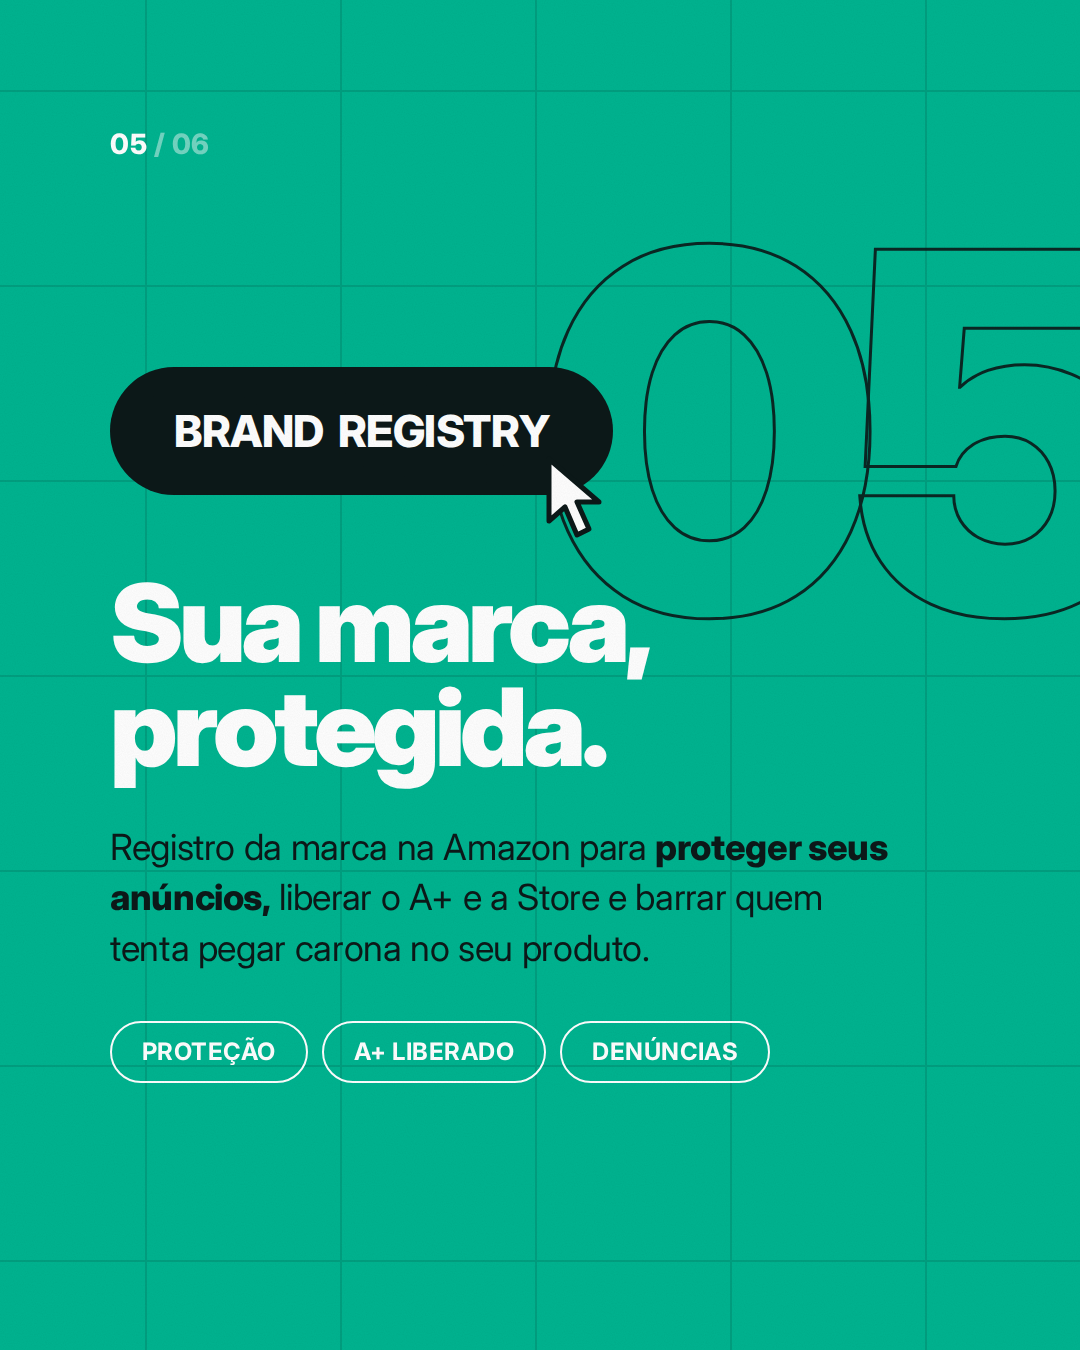
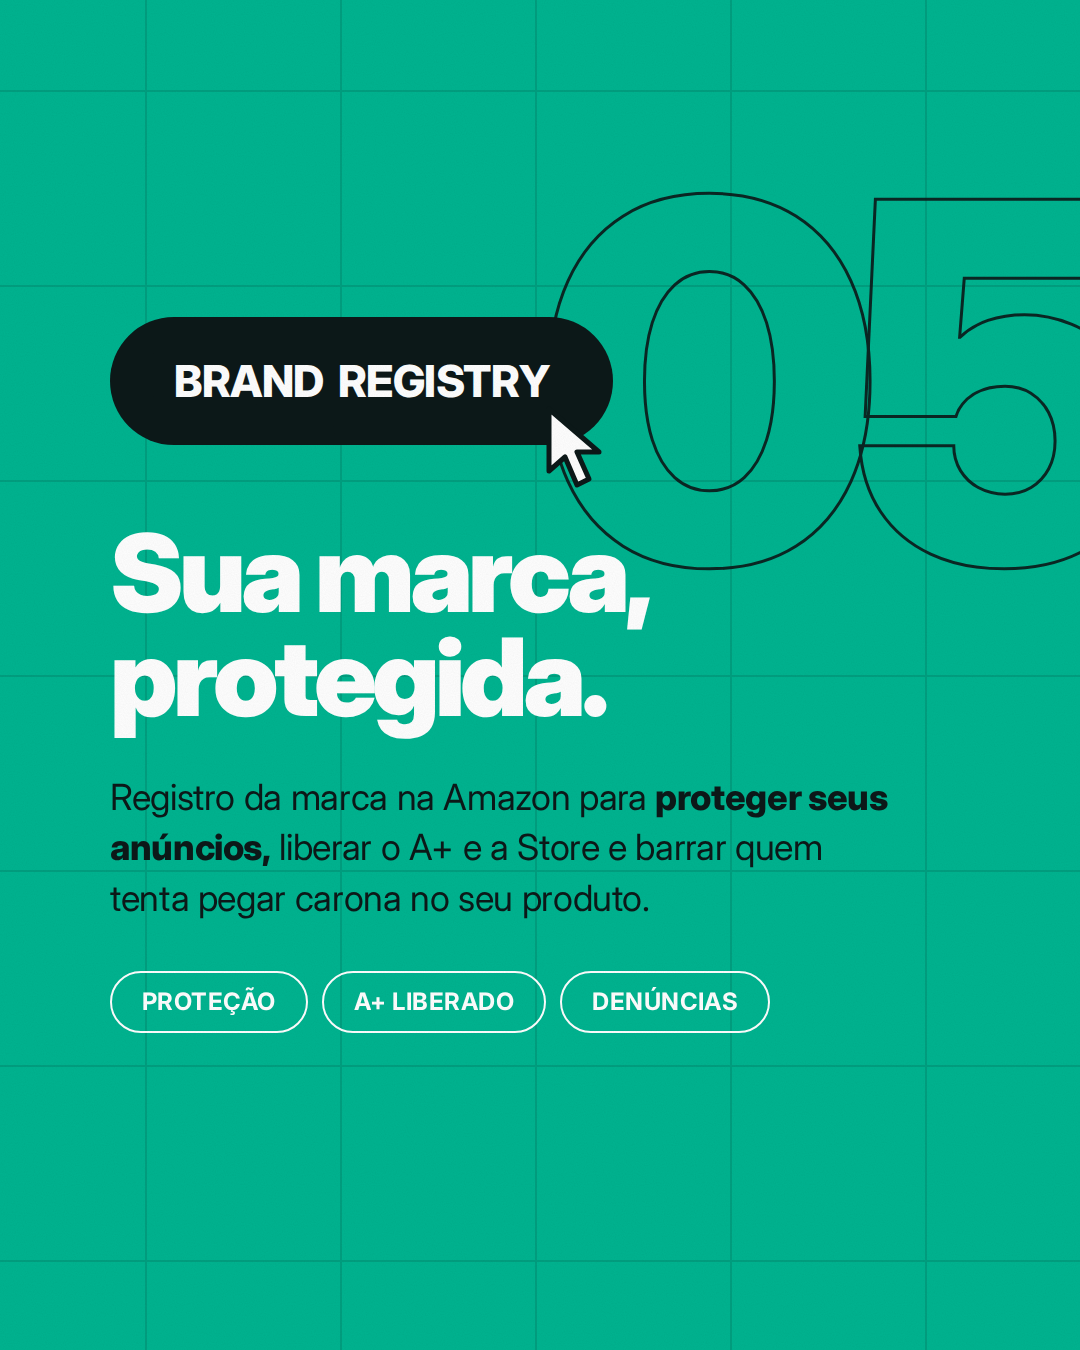
Carrossel services: remove o contador dos slides de serviço
Claude-Session: https://claude.ai/code/session_016sUdgHHfxU1Scirg6wMBYZ

diff --git a/instagram/waybrand-services/slides.html b/instagram/waybrand-services/slides.html
@@ -110,7 +110,6 @@
     <div class="slide ${s.k}" id="s${i + 2}">
       <div class="grid"></div>
       <div class="num">${n}</div>
-      <div class="top"><div class="count">${n} <span>/ 06</span></div></div>
       <div class="btn">${s.b}</div>
       ${cursor(verde ? '#FFFFFF' : '#0C1818', verde ? '#0C1818' : '#FFFFFF')}
       <div class="h">${s.h}</div>
@@ -133,9 +132,9 @@
         chips.style.top = (hb + 44 + p.offsetHeight + 48) + 'px';
         return chips.offsetTop + chips.offsetHeight;
       };
-      // centraliza o bloco entre o contador e a base do slide; o número vazado acompanha
+      // centraliza o bloco na altura do slide; o número vazado acompanha
       const block = place(0);
-      const top = Math.round((190 + 1260 - block) / 2);
+      const top = Math.round((1350 - block) / 2);
       place(top); sl.querySelector('.num').style.top = (top - 185) + 'px';
     });
     document.body.dataset.ready = '1';

diff --git a/instagram/waybrand-services/NOTAS.md b/instagram/waybrand-services/NOTAS.md
@@ -23,7 +23,7 @@ Cada slide de serviço usa a cor do botão correspondente na capa clara:
 - Botão de contorno vira slide branco com detalhes verdes e texto escuro: Conteúdo A+, Ads e escala e Suporte.
 
 Estrutura dos slides de serviço:
-- Só o contador "0N / 06" no topo, sem logo, site, @ ou seta.
+- Sem contador, logo, site, @ ou seta.
 - Número gigante vazado no fundo.
 - O botão da capa ampliado, com um cursor "clicando" nele.
 - Frase de efeito, texto curto e chips com o que está incluído.
